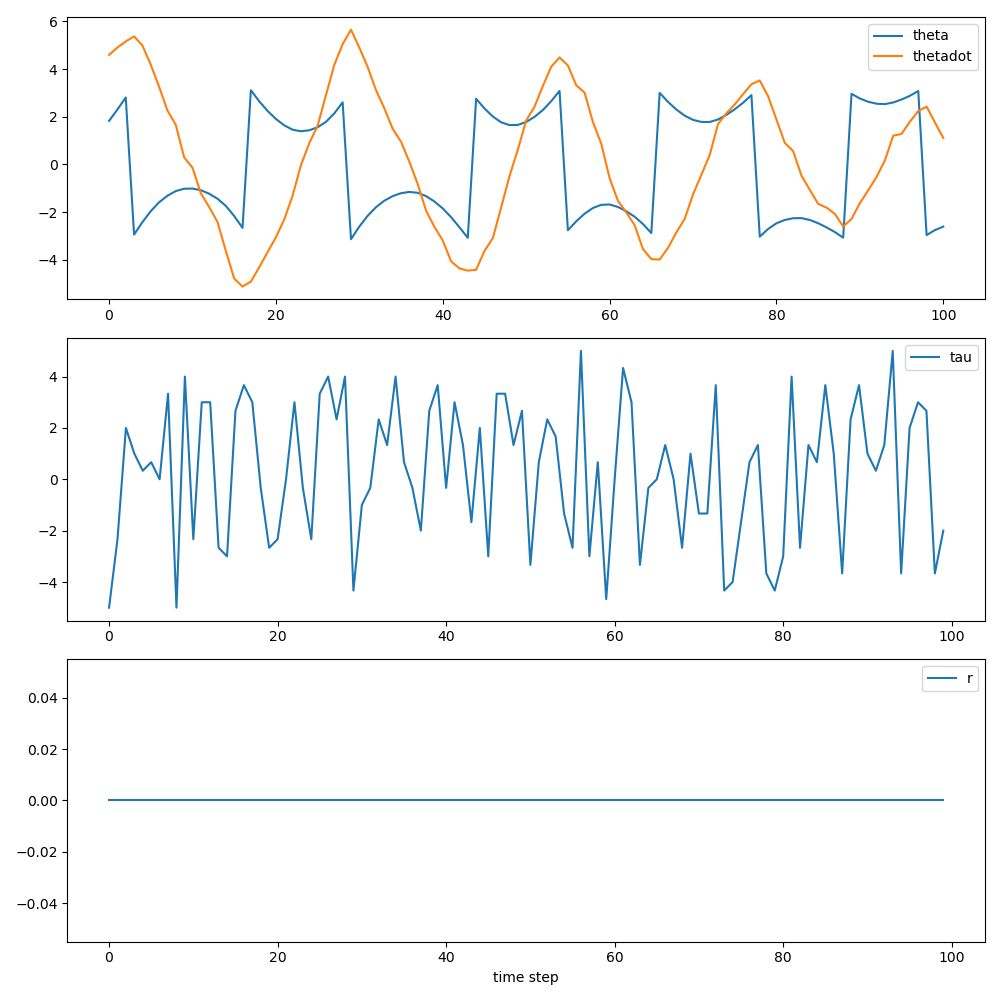
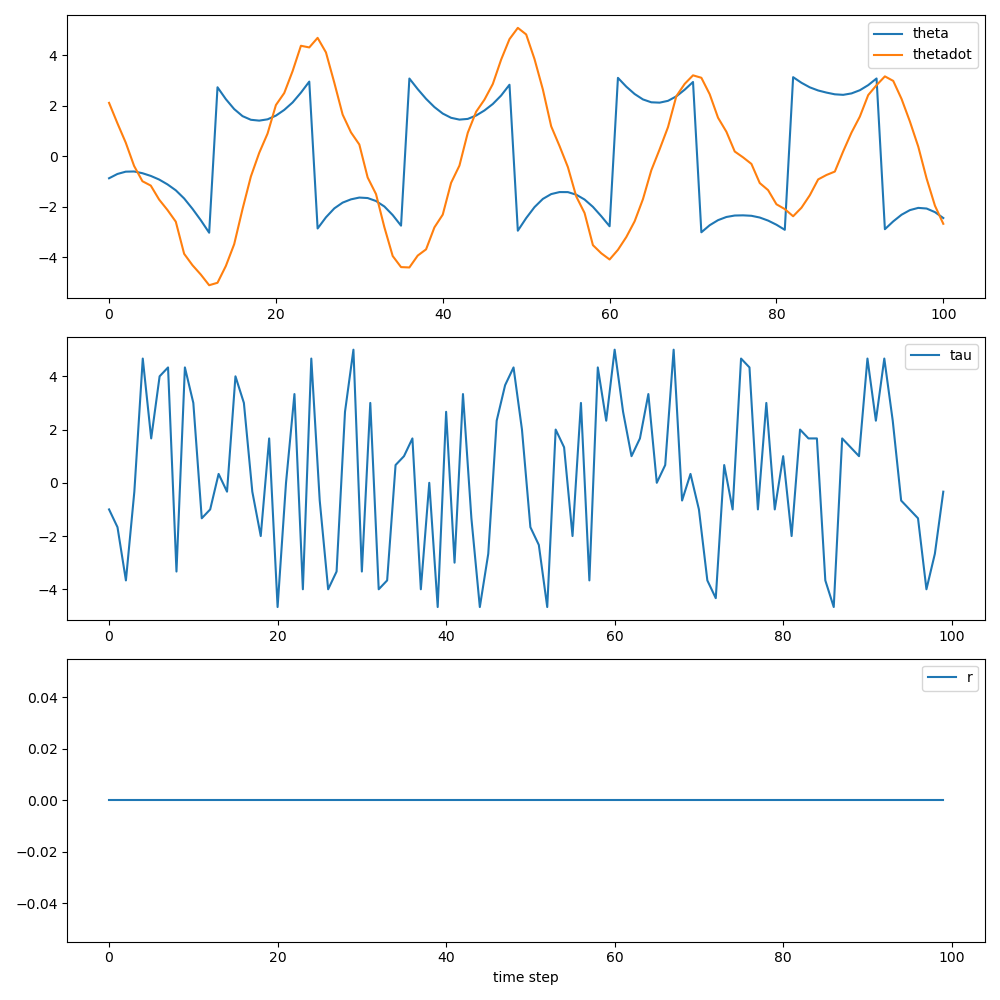
implemented Q network

diff --git a/gym_example copy.py b/gym_example copy.py
@@ -1,6 +1,7 @@
-import gymnasium as gym
+import discreteaction_pendulum
 import math
 import random
+import numpy as np
 import matplotlib
 import matplotlib.pyplot as plt
 from collections import namedtuple, deque
@@ -11,7 +12,7 @@ import torch.nn as nn
 import torch.optim as optim
 import torch.nn.functional as F
 
-env  = gym.make("CartPole-v1")
+env = discreteaction_pendulum.Pendulum()
 
 #setup matplotlib
 is_ipython = 'inline' in matplotlib.get_backend()
@@ -45,9 +46,9 @@ class  ReplayMemory(object):
 class DQN(nn.Module):
     def __init__(self, n_obs, n_act):
         super(DQN, self).__init__()
-        self.layer1 = nn.Linear(n_obs, 128)
-        self.layer2 = nn.Linear(128,128)
-        self.layer3 = nn.Linear(128, n_act)
+        self.layer1 = nn.Linear(n_obs, 64)
+        self.layer2 = nn.Linear(64,64)
+        self.layer3 = nn.Linear(64, n_act)
     
     def forward(self, x):
         x = torch.tanh(self.layer1(x))
@@ -56,7 +57,7 @@ class DQN(nn.Module):
 
 
 #HYPER PARAMETERS
-BS = 128            #BATCH SIZW
+BS = 128            #BATCH SIZE
 gam = 0.95          #Discount rate
 eps0 = 0.9          #explorate rate at start
 epsf = 0.05         #exploration rate at end
@@ -64,10 +65,11 @@ decay = 1000        #exploration decay rate
 tau = 0.005         #update rate of network
 alf = 1e-4          #learning rate of optimizer
 
-n_actions = env.action_space.n
+actions = range(env.num_actions)
+n_actions = len(actions)
 
-state, info = env.reset()
-n_obs = len(state)
+s = env.reset()
+n_obs = len(s)
 
 policy_net = DQN(n_obs, n_actions)
 target_net = DQN(n_obs, n_actions)
@@ -77,43 +79,47 @@ memory = ReplayMemory(10000)
 
 steps = 0
 
-def select_action(state):
+def select_action(state,explore=True):
     global steps
     sample = random.random()
     eps = epsf+(eps0-epsf)*math.exp(-1*steps/decay)
     steps +=1
-    if sample>eps:
+    if not explore or sample>eps:
         with torch.no_grad():
-            return policy_net(state).max(1)[1].view(1,1)
+            return policy_net(state).max(1)[1].view(1,1) 
     else:
-        return torch.tensor([[env.action_space.sample()]], device=device, dtype=torch.long)
+        return torch.tensor([random.sample(actions,1)], device=device, dtype=torch.long)
         
-episode_durations = []
-
-def plot_durations(show_result=False):
+episode_returns = []
+episode_means = []
+def plot_durations(episode_returns, episode_means, show_result=False):
     plt.figure(1)
-    durations_t = torch.tensor(episode_durations, dtype=torch.float)
     if show_result:
-        plt.title('Learning Curve')
+        plt.title('Result')
     else:
         plt.clf()
         plt.title('Training')
     plt.xlabel('Episode')
-    plt.ylabel('Duration')
-
+    plt.ylabel('Episode Return')
+    plt.plot(episode_returns)
+    plt.grid()
+    plt.ylim([-10,110])
     # Take 100 episode averages and plot them too
-    if len(durations_t) >= 100:
-        means = durations_t.unfold(0, 100, 1).mean(1).view(-1)
-        means = torch.cat((torch.zeros(99), means))
-        plt.plot(means.numpy())
+    if len(episode_returns) >= 100 and not show_result:
+        episode_means.append(np.mean(episode_returns[-20:-1]))
 
-    plt.pause(0.001)  # pause a bit so that plots are updated
+    elif not show_result:
+        episode_means.append(np.mean(episode_returns))
+    plt.plot(range(len(episode_means)),episode_means)
+
+    plt.pause(0.0001)  # pause a bit so that plots are updated
     if is_ipython:
         if not show_result:
             display.display(plt.gcf())
             display.clear_output(wait=True)
         else:
             display.display(plt.gcf())
+    return episode_means
 
 def optimize_model():
     if len(memory) < BS:
@@ -152,24 +158,24 @@ def optimize_model():
     optimizer.step()
 
 if torch.cuda.is_available():
-    num_episodes = 600
+    num_episodes = 2000
 else:
-    num_episodes = 500
+    num_episodes = 2000
 
 for i_episode in range(num_episodes):
     # Initialize the environment and get it's state
-    state, info = env.reset()
+    state = env.reset()
     state = torch.tensor(state, dtype=torch.float32, device=device).unsqueeze(0)
+    totalr = 0
     for t in count():
         action = select_action(state)
-        observation, reward, terminated, truncated, _ = env.step(action.item())
-        reward = torch.tensor([reward], device=device)
-        done = terminated or truncated
-
-        if terminated:
+        s, r, done = env.step(action.item())
+        reward = torch.tensor([r], device=device)
+        totalr +=r
+        if done:
             next_state = None
         else:
-            next_state = torch.tensor(observation, dtype=torch.float32, device=device).unsqueeze(0)
+            next_state = torch.tensor(s, dtype=torch.float32, device=device).unsqueeze(0)
 
         # Store the transition in memory
         memory.push(state, action, next_state, reward)
@@ -189,10 +195,15 @@ for i_episode in range(num_episodes):
         target_net.load_state_dict(target_net_state_dict)
 
         if done:
-            episode_durations.append(t + 1)
-            plot_durations()
+            # if totalr>0:
+            episode_returns.append(totalr)
+            # else:
+                # episode_returns.append(-10)
+            episode_means = plot_durations(episode_returns,episode_means)
             break
 
 print('Complete')
-plot_durations(show_result=True)
+plot_durations(episode_returns,episode_means,show_result=True)
+plt.ioff()
+plt.show()
 plt.savefig("temp.png")
